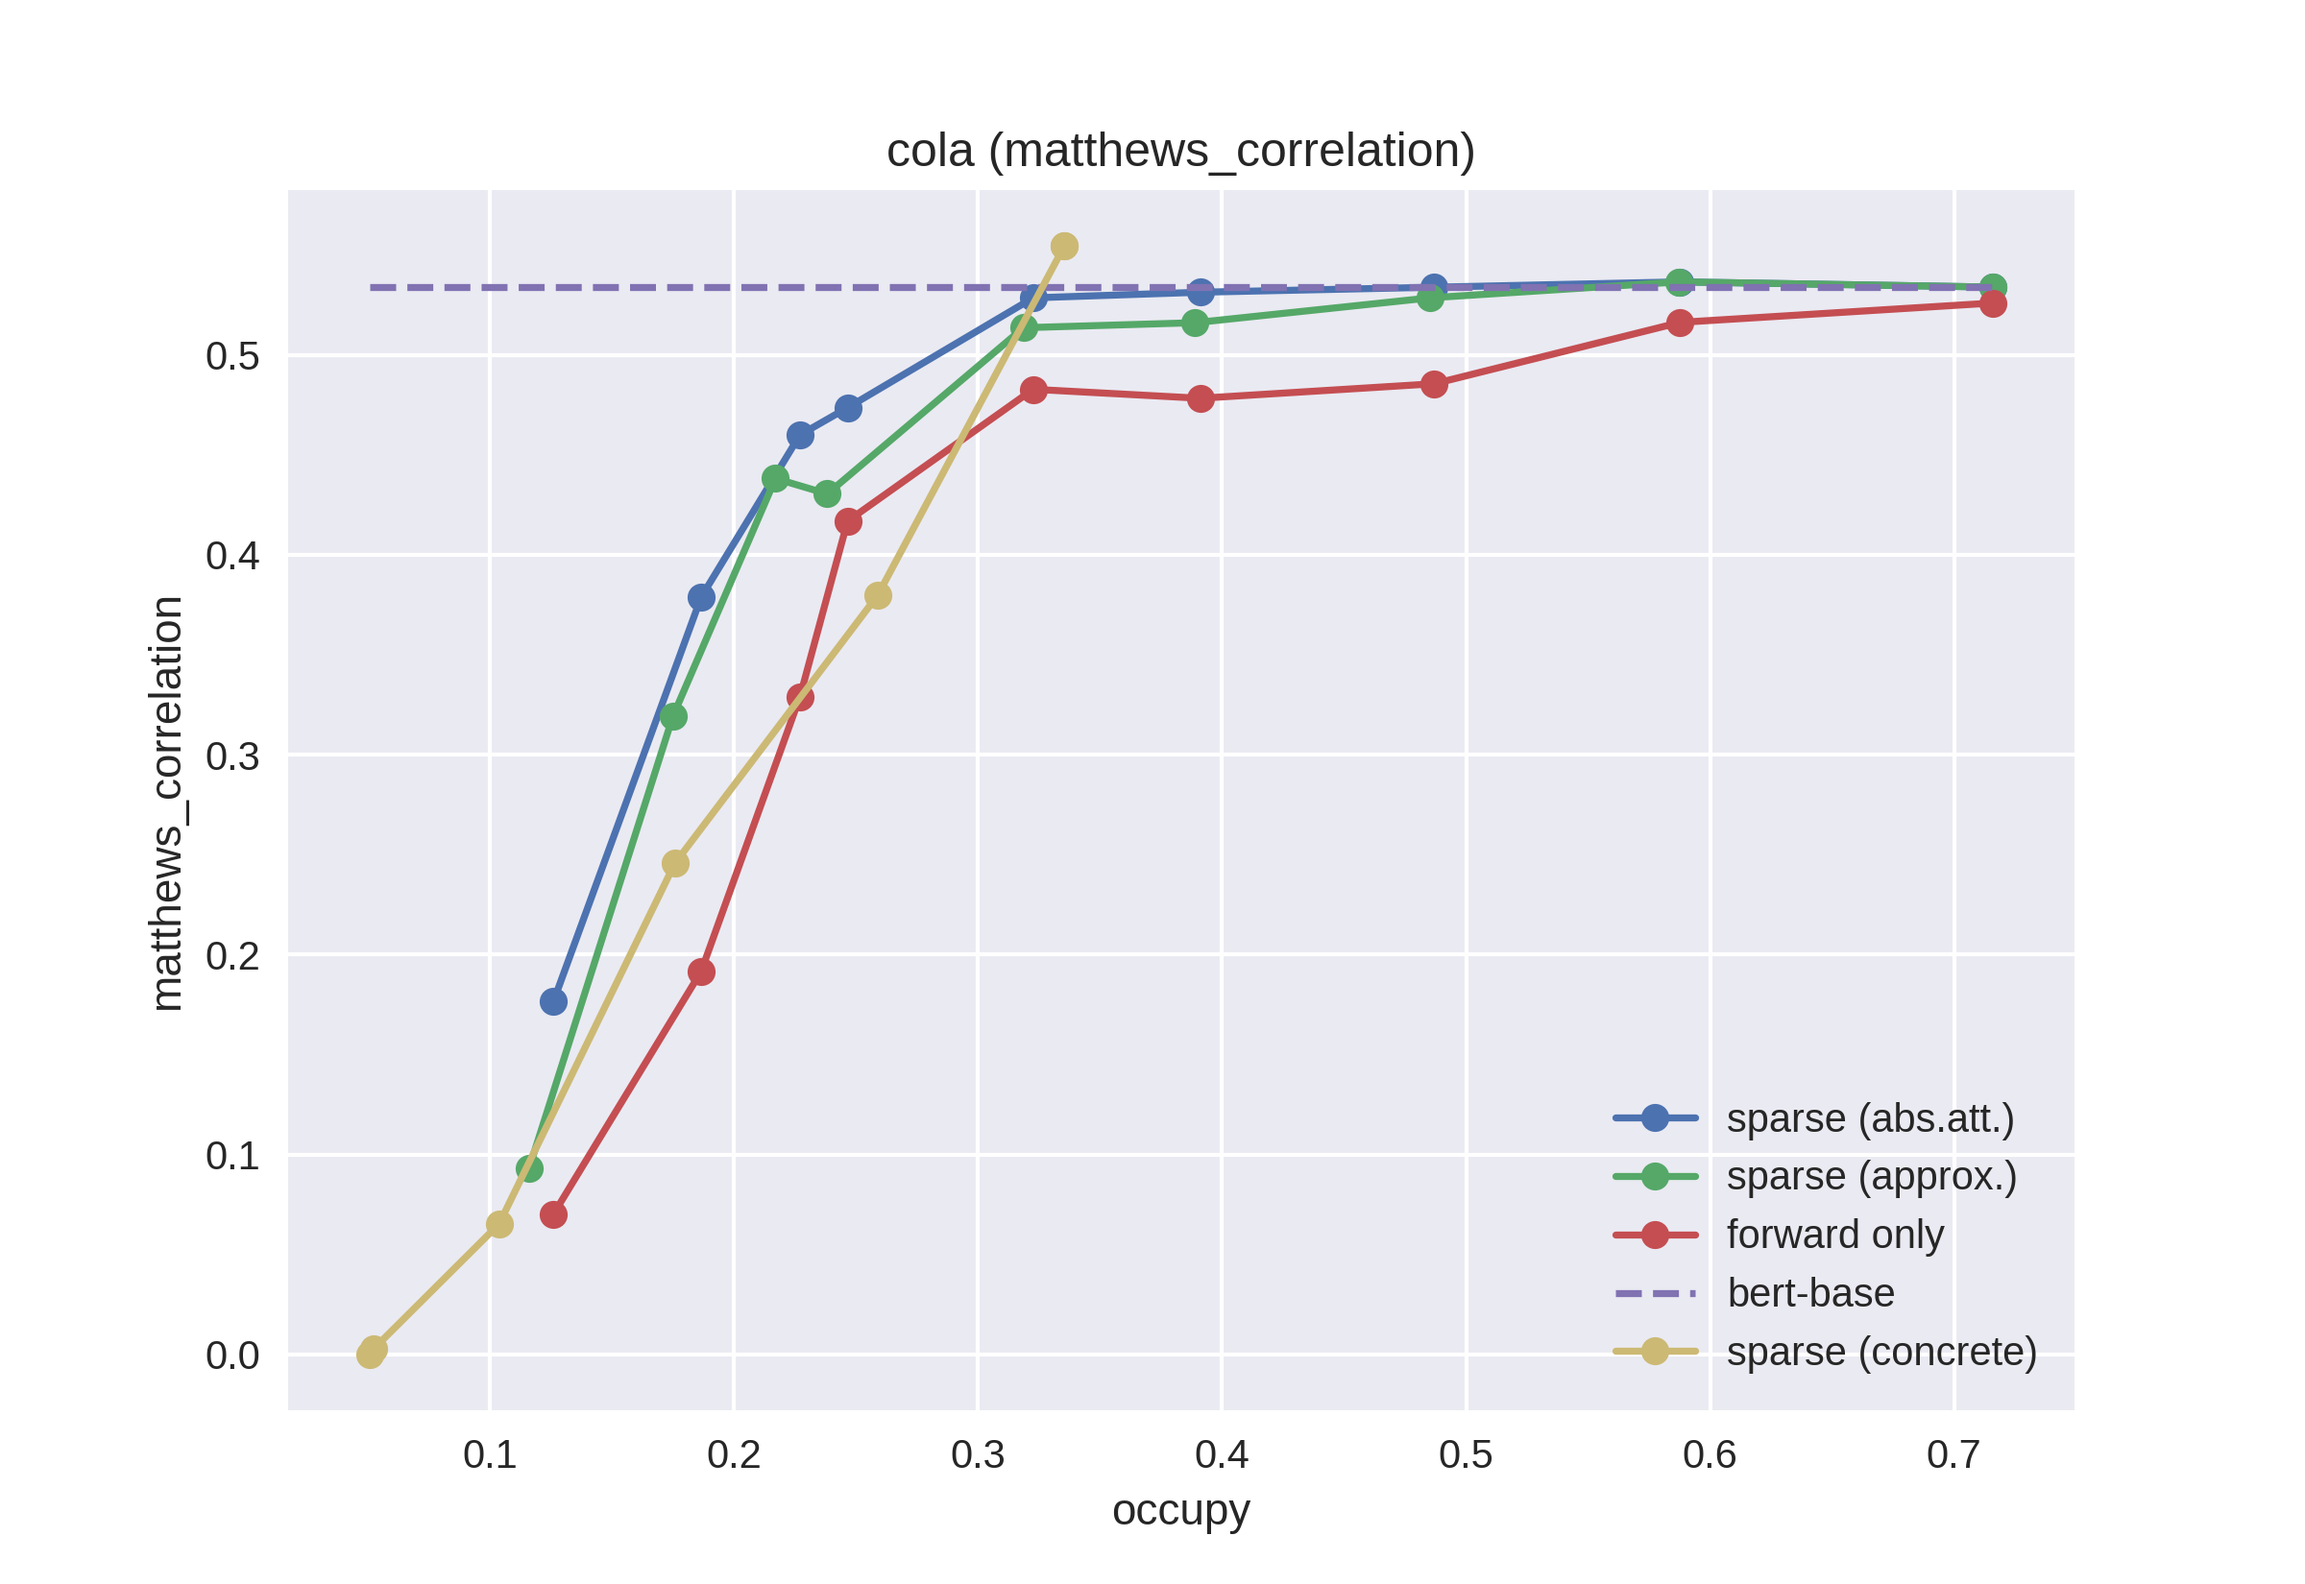
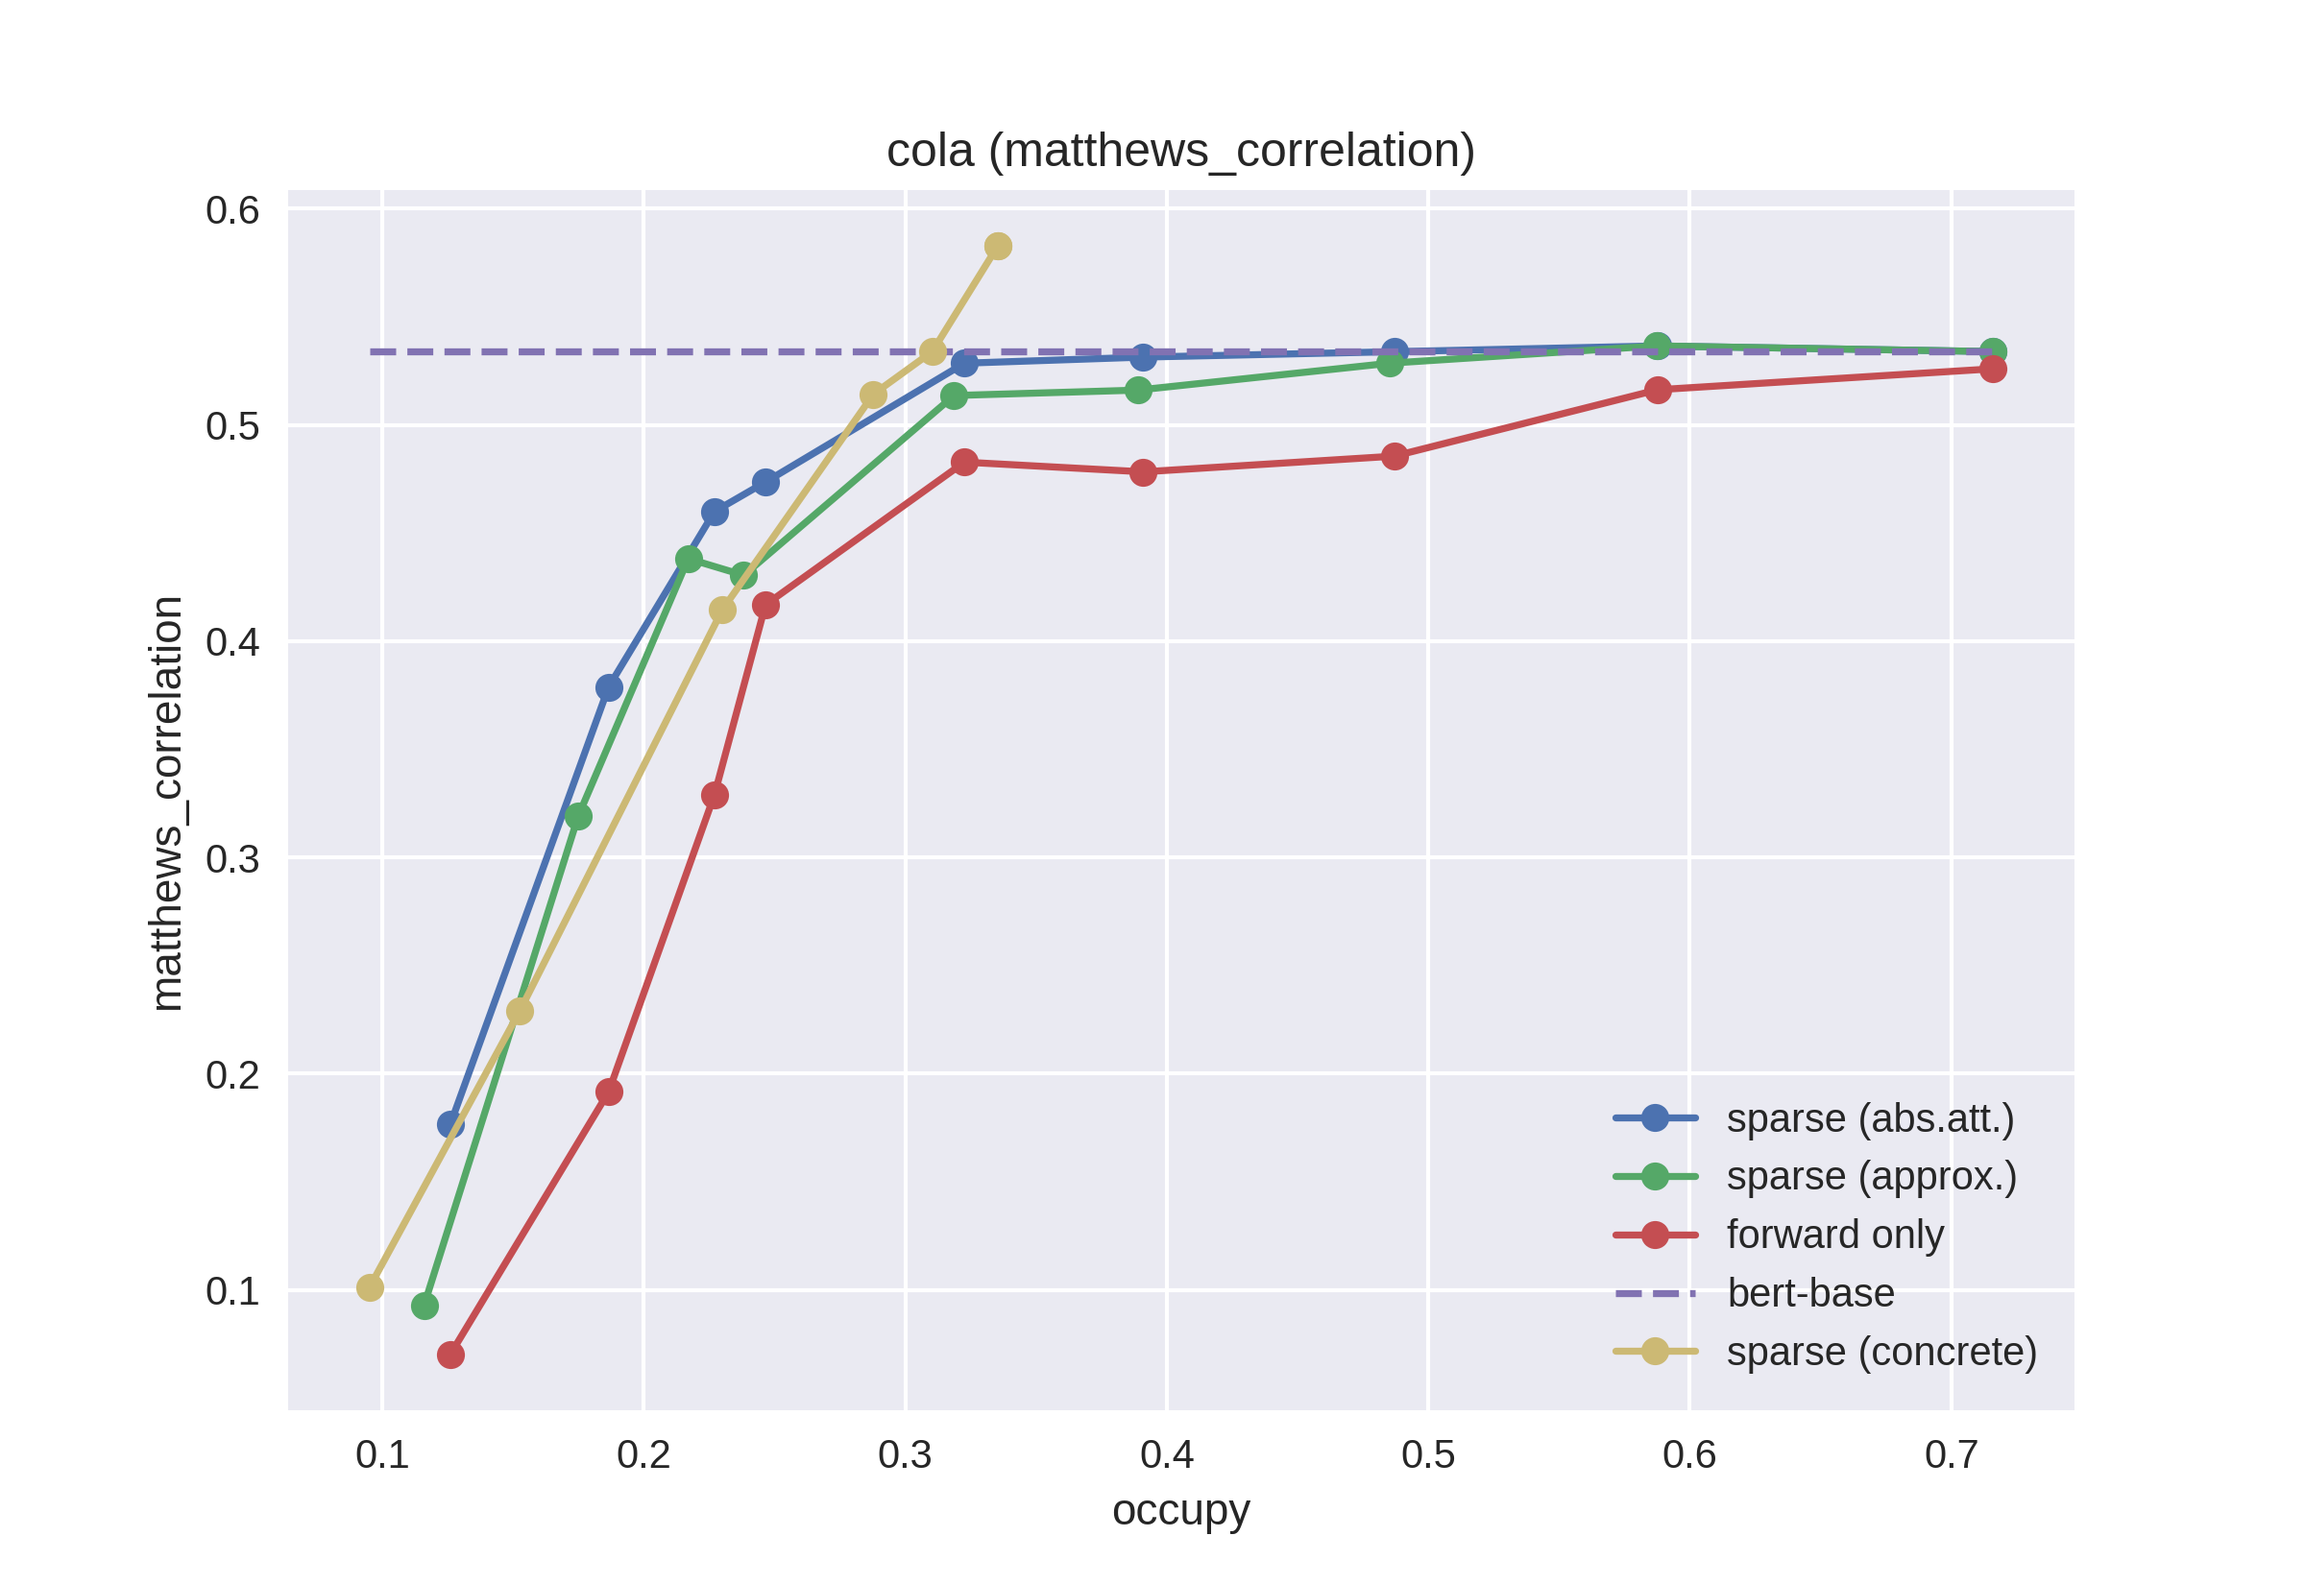
stable

diff --git a/models/sparse_token.py b/models/sparse_token.py
@@ -641,7 +641,7 @@ class BertLayer(nn.Module):
             self.concrete_init_max = self.concrete_init_min
         self.concrete_prop_p_logit = nn.Parameter(torch.tensor(0.0, dtype=torch.float32))
         self.p_logit = nn.Parameter(torch.empty(1).uniform_(self.concrete_init_min, self.concrete_init_max))
-        self.temperature = 0.01
+        self.temperature = 0.1
         self.input_dimensionality = 0
 
     def init_p_logits(self):
@@ -713,7 +713,7 @@ class BertLayer(nn.Module):
                 # dropout_regularizer *= self.concrete_dropout_regularizer * self.input_dimensionality
                 
                 # loss = weights_regularizer + dropout_regularizer
-                loss = ((self.p_logit - self.concrete_init_min) ** 2) * 1e-5
+                loss = ((self.p_logit - self.concrete_init_min) ** 2) * 1e-6
                 #loss = (torch.sigmoid(self.p_logit) ** 2) * 1e-6
                 #raise_if_nan(loss)
                 #loss = 0
@@ -1532,7 +1532,8 @@ def run_bert_with_concrete(
                 std_att_score = torch.mean(std_att_score, dim=1)
                 raise_if_nan(std_att_score)
                 uni_att_score = STANDARD_NORMAL_DISTRIBUTION.cdf(std_att_score) #torch.distributions.Normal(0, 1).cdf(std_att_score)
-                uni_att_score = (0.05 + 0.95 * uni_att_score * (score > EPS)) * input_dict['attention_mask']
+                #uni_att_score = (0.05 + 0.95 * uni_att_score * (score > EPS)) * input_dict['attention_mask']
+                uni_att_score = (0.05 + 0.95 * uni_att_score) * input_dict['attention_mask']
                 concrete_score = uni_att_score
             else:
                 raise Exception()
@@ -1548,11 +1549,11 @@ def run_bert_with_concrete(
             #layer.output.dense.retain_prob = 1 - p
         #print(mask[0])
         
-        #last_mask = torch.max(torch.stack([mask, last_mask], dim=0), dim=0)[0]  # this should be input mask of current layer, so set dropout mask to previous output layer.
+        current_mask = torch.max(torch.stack([mask, last_mask], dim=0), dim=0)[0]  # this should be input mask of current layer, so set dropout mask to previous output layer.
         
-        last_masks.append(mask)
-        masks = torch.stack(last_masks, dim=-1)
-        current_mask = torch.sum(torch.softmax(masks, dim=-1) * masks, dim=-1)
+        # last_masks.append(mask)
+        # masks = torch.stack(last_masks, dim=-1)
+        # current_mask = torch.sum(torch.softmax(masks, dim=-1) * masks, dim=-1)
 
         # last_mask = mask
         

diff --git a/main/concrete_glue_plot.py b/main/concrete_glue_plot.py
@@ -5,7 +5,7 @@ import torch, pickle
 
 import trainer.concrete_trainer as concrete
 
-p_logits = [-2, -1.5, -1, -0.5, 0, 3, 12]
+p_logits = [-2, -1.5, -1, -0.5, 0, 3]
 epoch_factors = [1.0, 1.0, 1.0, 1.0, 1.0, 0.4, 0.4]
 #p_logits = [0, 3]
 # epoch_factors = [0.5, 0.2]
